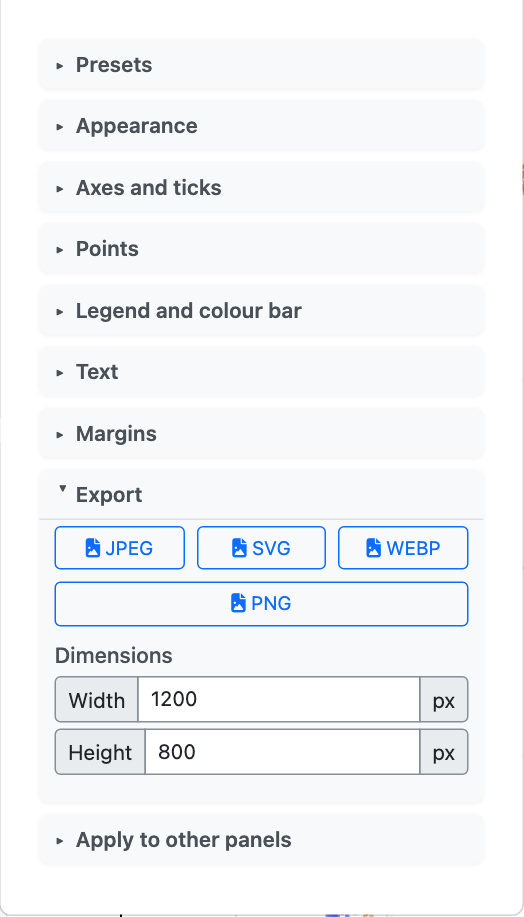
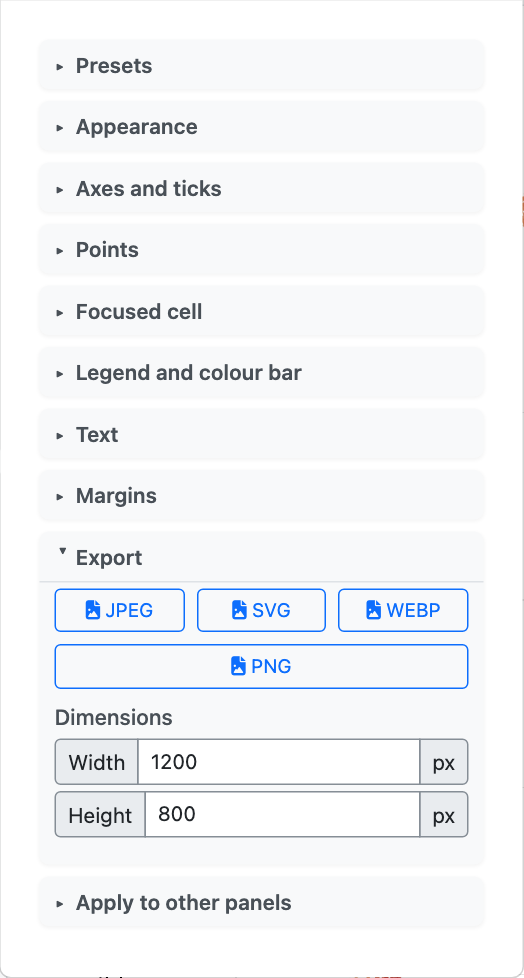
Docs: recapture Plot Options with the Focused cell group
plot-options-menu.png shows the ten groups; plot-options-axes.png shows
the Reset buttons greyed out while their colours follow the theme, as
the menu draws them from the start.

diff --git a/docs/user-guide/plot-options.md b/docs/user-guide/plot-options.md
@@ -11,9 +11,9 @@ time.
 ```{figure} ../_static/screens/user-guide/plot-options-menu.png
 :class: screenshot
 :width: 35%
-:alt: The Plot Options menu with nine groups: Presets, Appearance, Axes and ticks, Points, Legend and colour bar, Text, Margins, Export (open, with the format buttons and size), Apply to other panels.
+:alt: The Plot Options menu with ten groups: Presets, Appearance, Axes and ticks, Points, Focused cell, Legend and colour bar, Text, Margins, Export (open, with the format buttons and size), Apply to other panels.
 
-Plot Options as it opens: every group starts folded except Export.
+Plot Options with its ten groups. Every group starts folded except Export.
 ```
 
 ## Recipes
